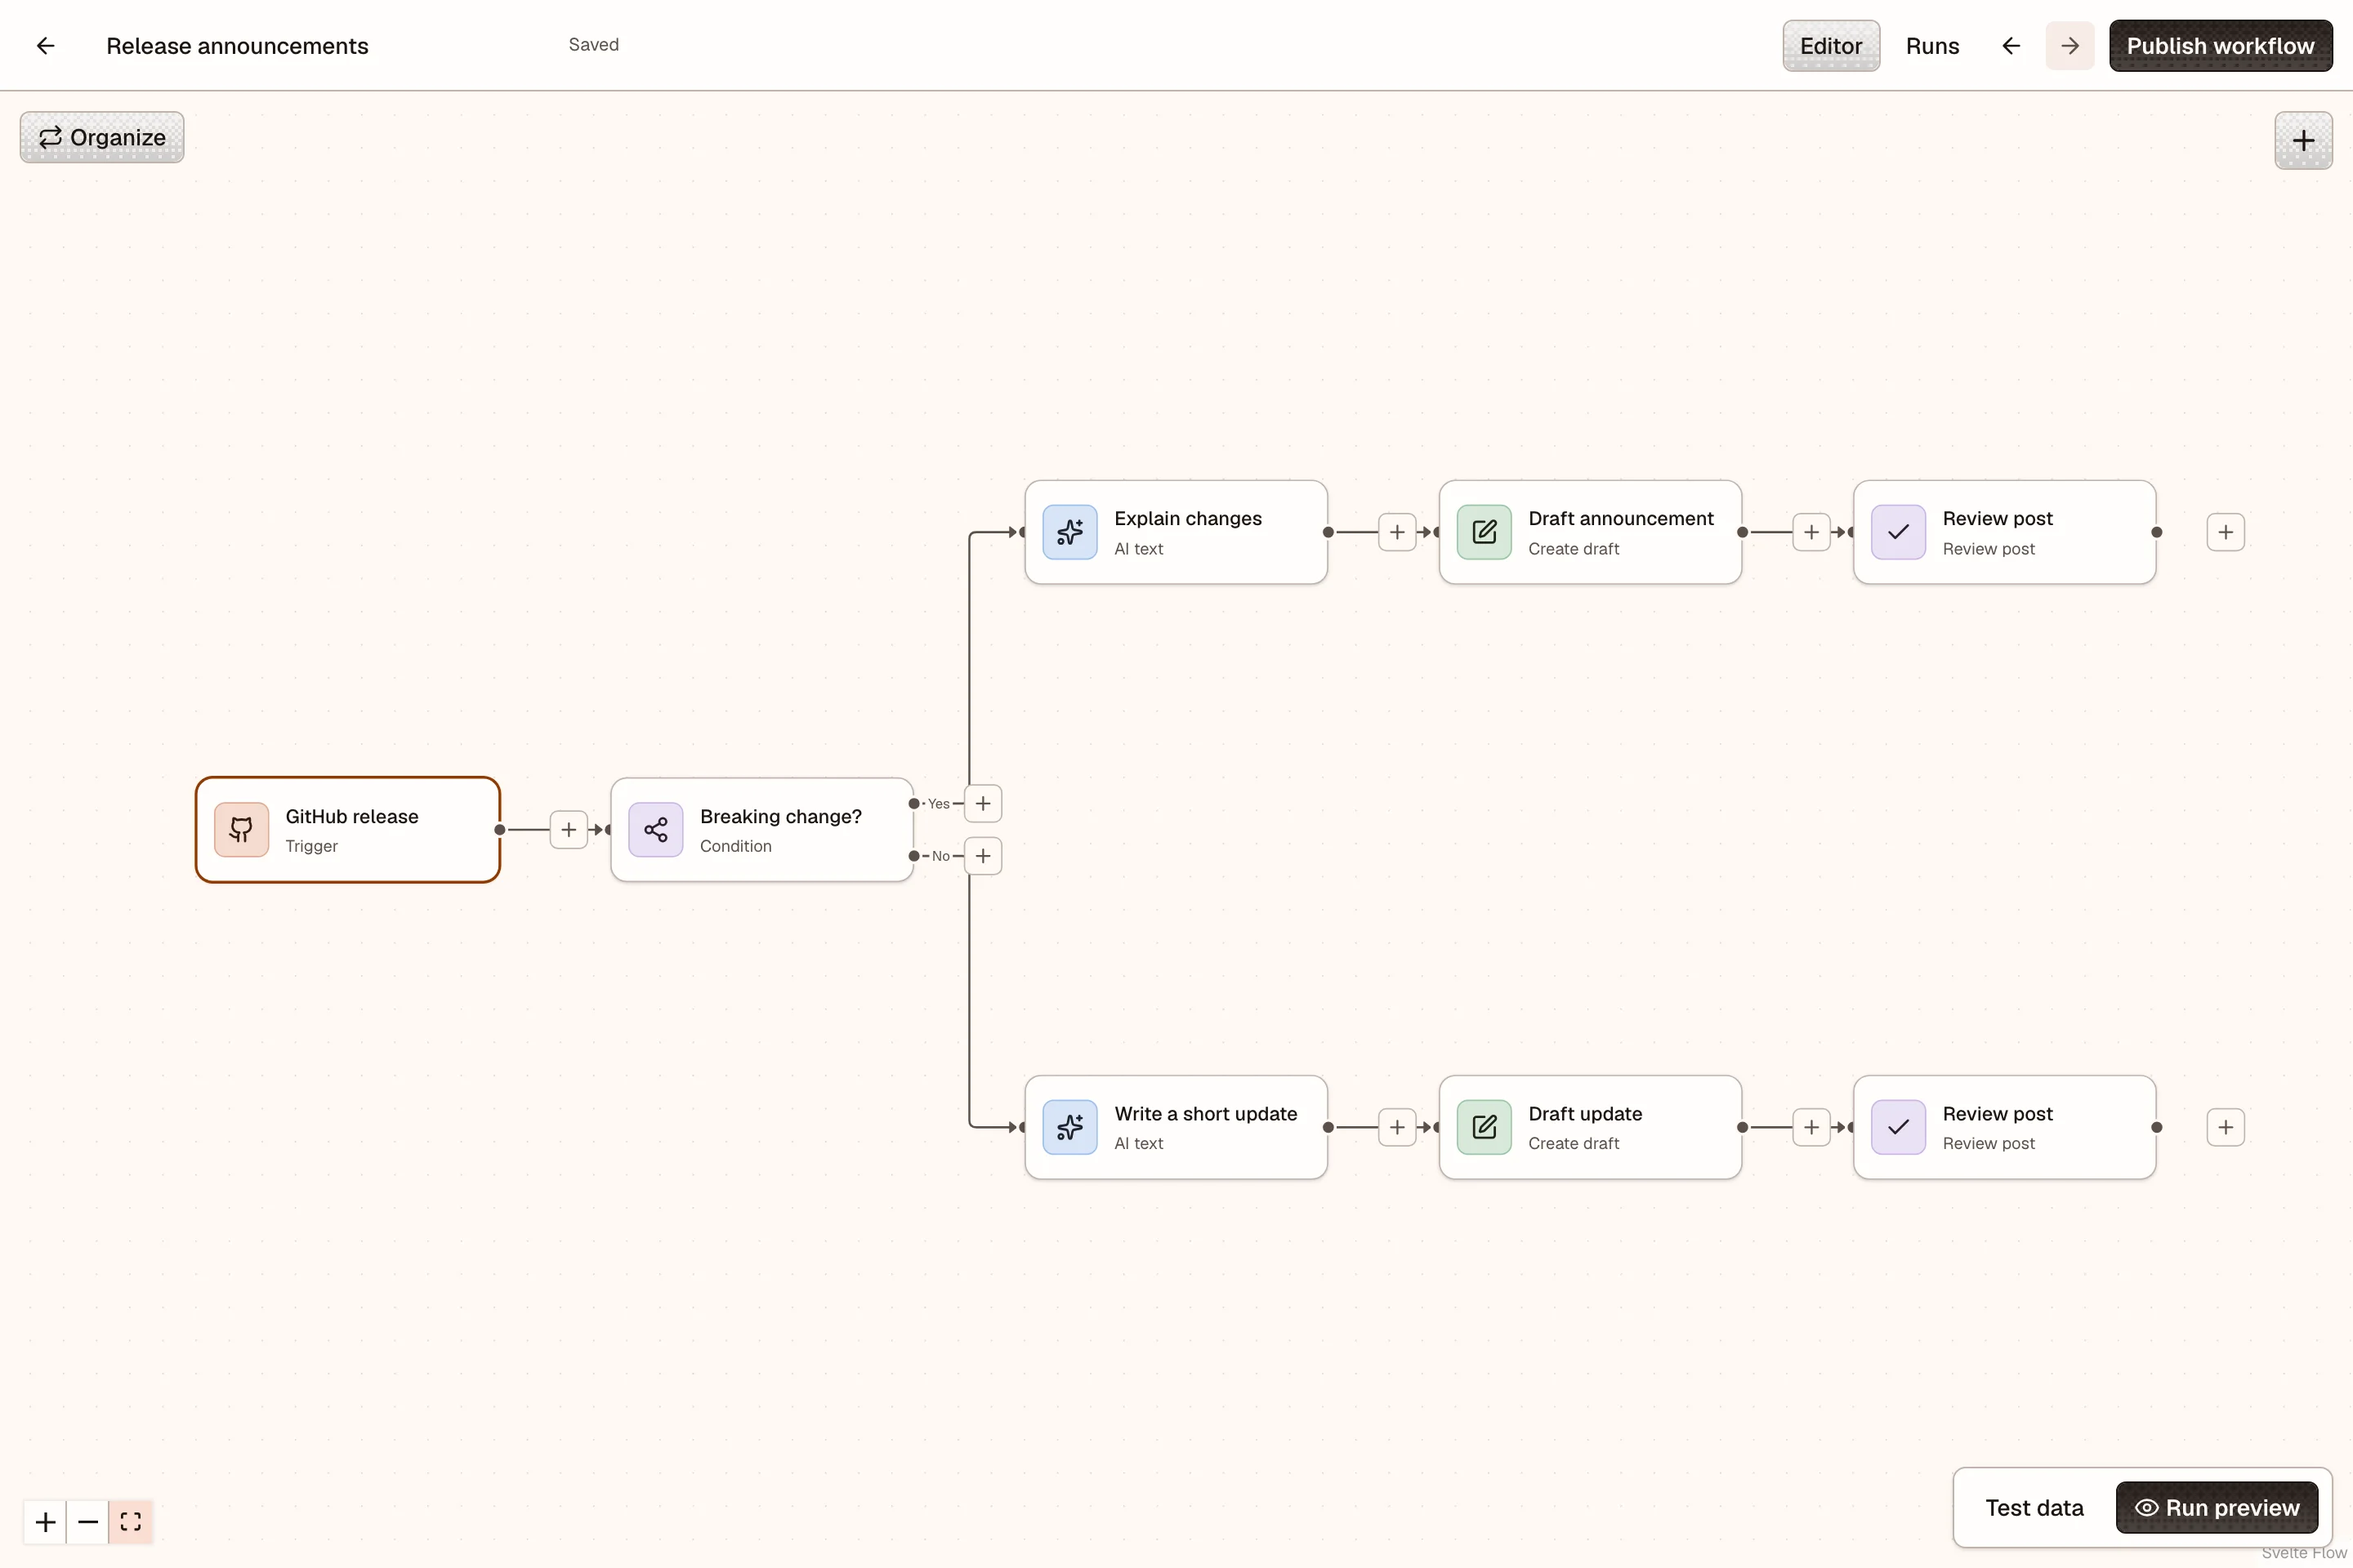
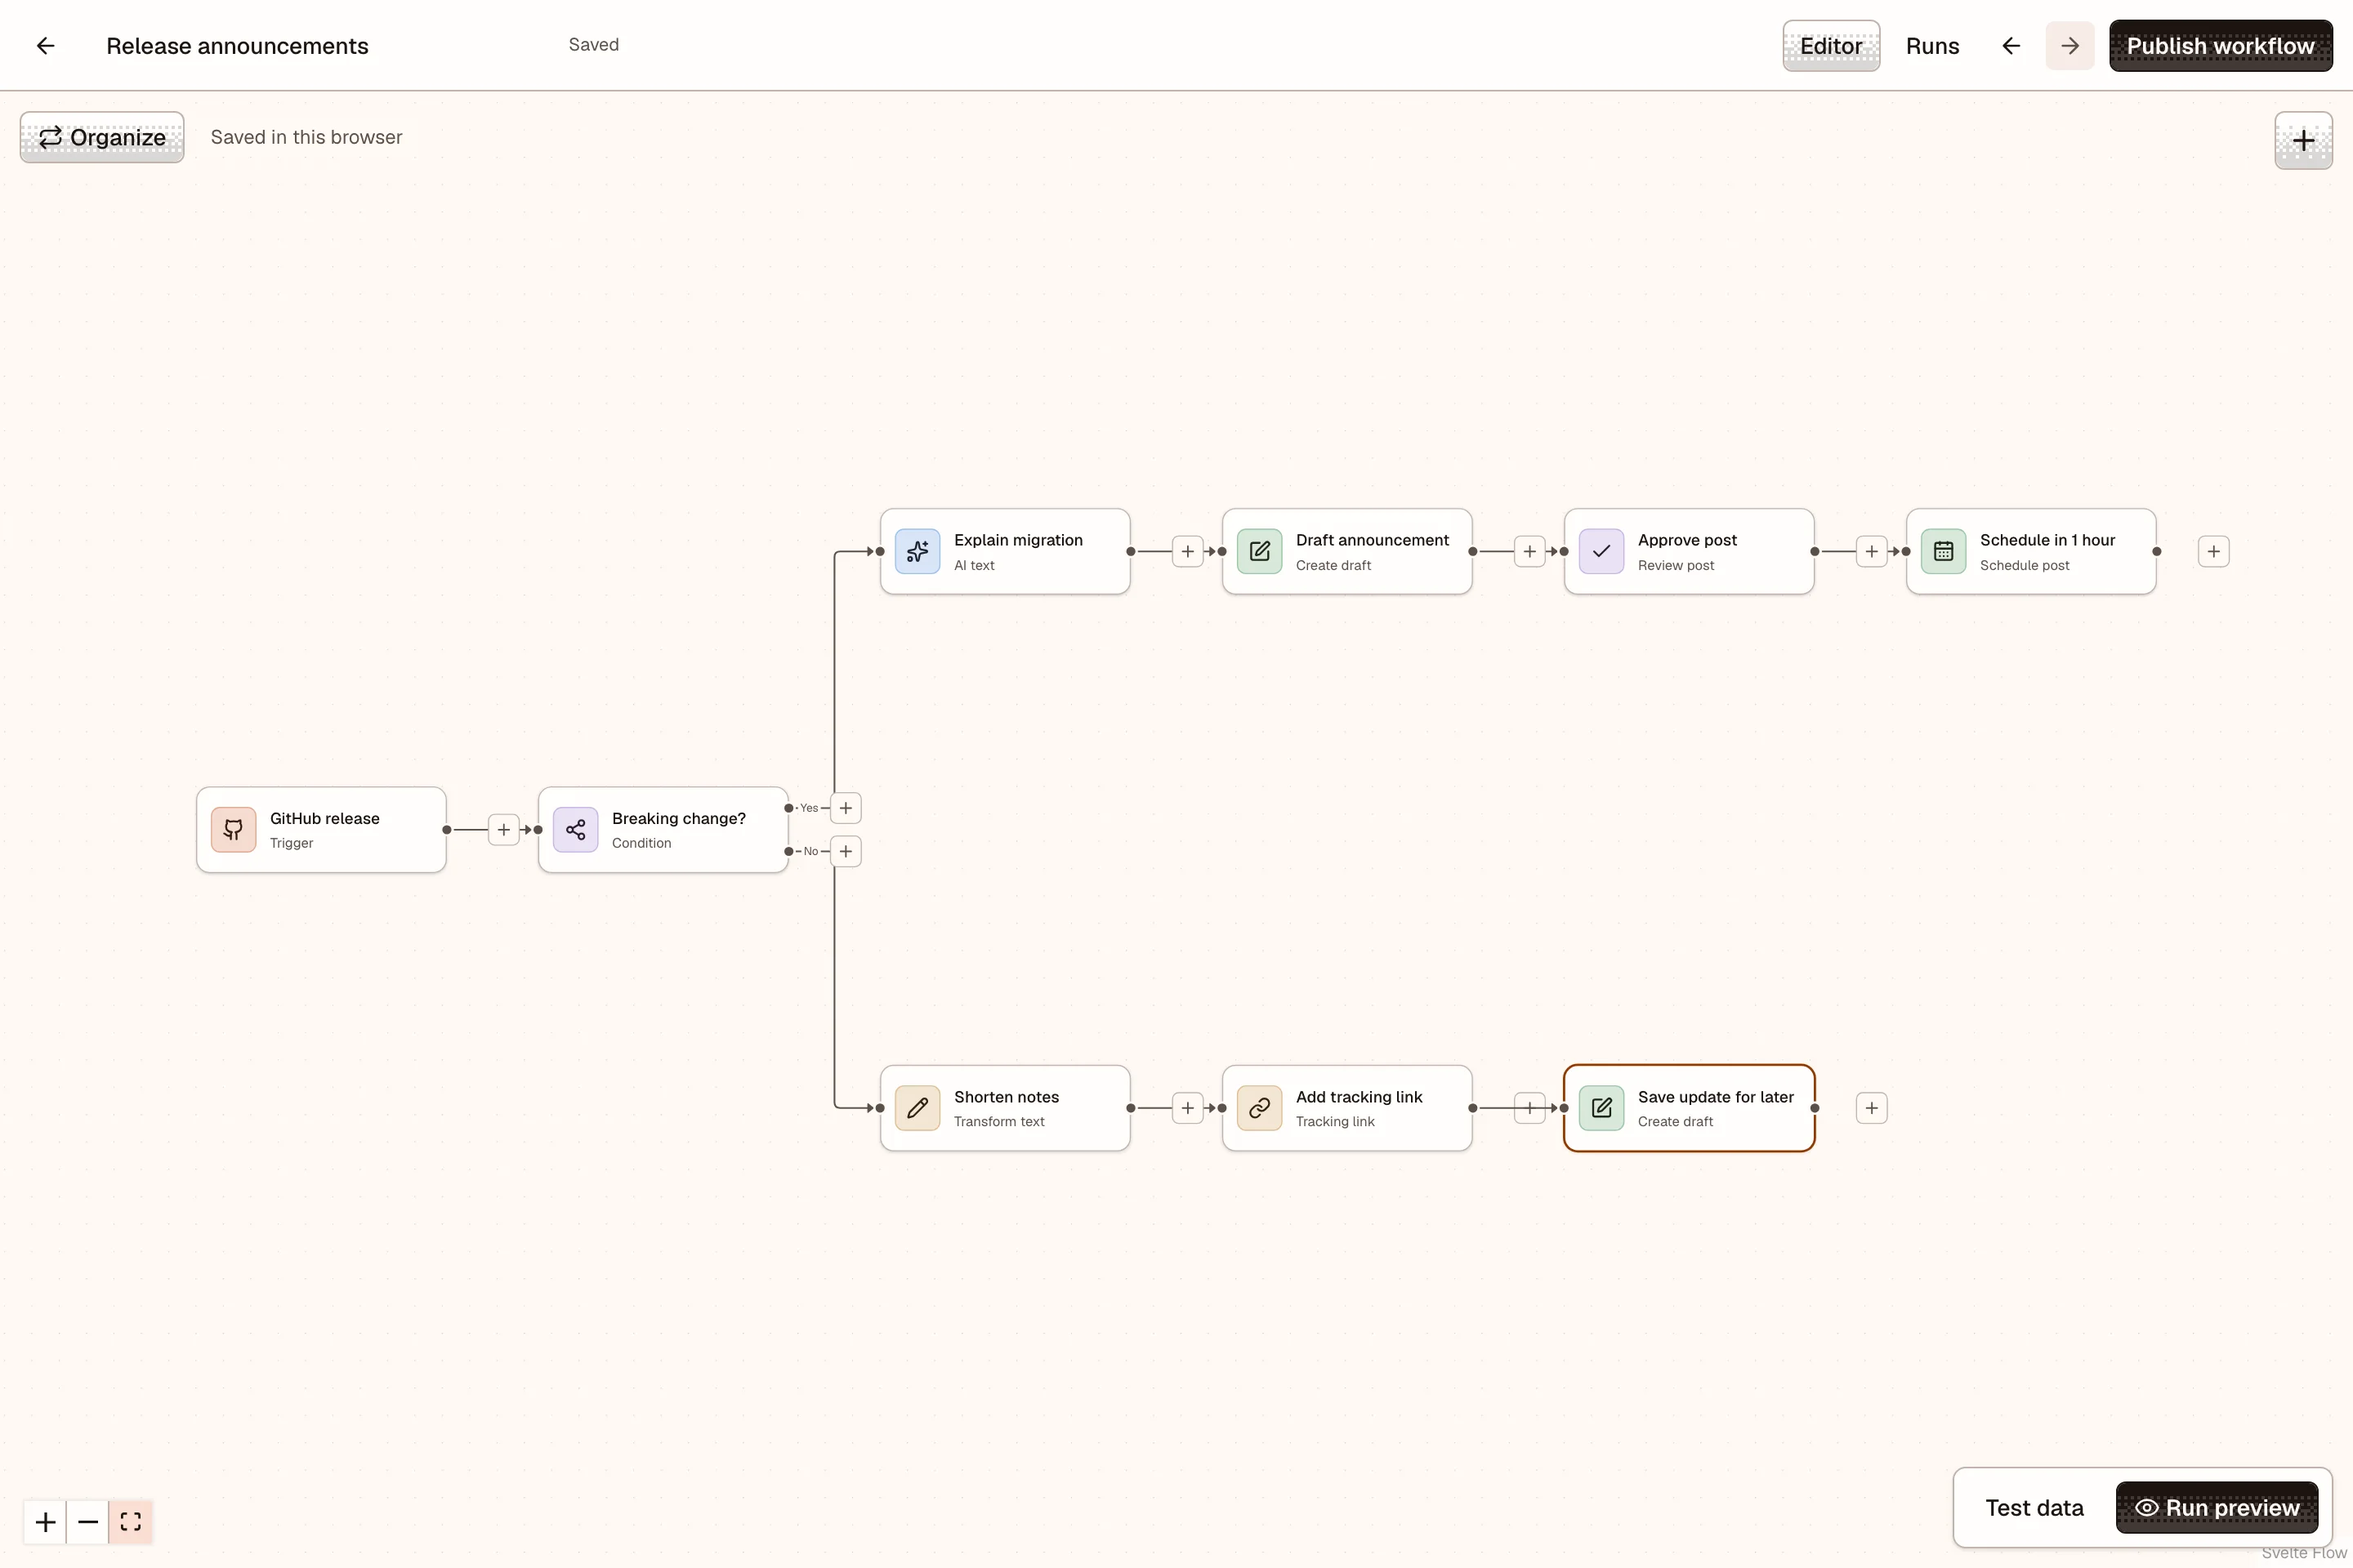
chore(screenshots): refresh workflows tour for the breaking-change demo
The capture spec now builds a release-announcement workflow with
AI writing, approval, and scheduling; tour copy and captures
follow it.

diff --git a/tests/app/product-screenshots.spec.ts b/tests/app/product-screenshots.spec.ts
@@ -991,35 +991,12 @@ test.describe("product screenshot capture", () => {
       await expect(page.getByLabel("Post text", { exact: true })).toBeVisible();
       await captureDetail(page.getByRole("dialog"), `workflows-node-${captureScheme}.png`, 0);
 
-      const branch = (id: string, title: string, instructions: string) => [
-        {
-          id: `${id}_write`,
-          kind: "ai_text",
-          name: title,
-          inputs: { text: { reference: "source.body" }, instructions: { literal: instructions } },
-        },
-        {
-          id: `${id}_draft`,
-          kind: "create_draft",
-          name: id === "launch" ? "Draft announcement" : "Draft update",
-          inputs: {
-            text: { reference: `${id}_write.text` },
-            title: { reference: "source.title" },
-            account_ids: { literal: [] },
-          },
-        },
-        {
-          id: `${id}_review`,
-          kind: "approval",
-          name: "Review post",
-          inputs: { publication_id: { reference: `${id}_draft.id` } },
-        },
-      ];
       const created = await page.request.post(`/api/v1/workflows?workspace_id=${workspace.id}`, {
         headers: { Authorization: `Bearer ${auth.token}` },
         data: {
           name: "Release announcements",
-          description: "Shape each release into a draft for review.",
+          description:
+            "Announce breaking changes after approval, or save a short update with a tracking link.",
           expected_revision: 0,
           definition: {
             schema: 1,
@@ -1034,16 +1011,79 @@ test.describe("product screenshot capture", () => {
                   operator: { literal: "contains" },
                   right: { literal: "Breaking" },
                 },
-                then: branch(
-                  "launch",
-                  "Explain changes",
-                  "Explain the breaking changes and migration steps in a short release announcement. Use only the supplied release notes.",
-                ),
-                else: branch(
-                  "update",
-                  "Write a short update",
-                  "Write a concise product update from these release notes. Use only the supplied facts.",
-                ),
+                then: [
+                  {
+                    id: "launch_write",
+                    kind: "ai_text",
+                    name: "Explain migration",
+                    inputs: {
+                      text: { reference: "source.body" },
+                      instructions: {
+                        literal:
+                          "Explain the breaking changes and migration steps. Use only the supplied release notes.",
+                      },
+                    },
+                  },
+                  {
+                    id: "launch_draft",
+                    kind: "create_draft",
+                    name: "Draft announcement",
+                    inputs: {
+                      text: { reference: "launch_write.text" },
+                      title: { reference: "source.title" },
+                      account_ids: { literal: [] },
+                    },
+                  },
+                  {
+                    id: "launch_review",
+                    kind: "approval",
+                    name: "Approve post",
+                    inputs: { publication_id: { reference: "launch_draft.id" } },
+                  },
+                  {
+                    id: "launch_schedule",
+                    kind: "schedule",
+                    name: "Schedule in 1 hour",
+                    inputs: {
+                      publication_id: { reference: "launch_review.publication_id" },
+                      revision: { reference: "launch_review.revision" },
+                      minutes: { literal: 60 },
+                    },
+                  },
+                ],
+                else: [
+                  {
+                    id: "update_text",
+                    kind: "text",
+                    name: "Shorten notes",
+                    inputs: {
+                      text: { reference: "source.body" },
+                      operation: { literal: "truncate" },
+                      limit: { literal: 240 },
+                    },
+                  },
+                  {
+                    id: "update_link",
+                    kind: "tracking_link",
+                    name: "Add tracking link",
+                    inputs: {
+                      url: { reference: "source.url" },
+                      source: { literal: "social" },
+                      medium: { literal: "organic" },
+                      campaign: { reference: "source.title" },
+                    },
+                  },
+                  {
+                    id: "update_draft",
+                    kind: "create_draft",
+                    name: "Save update for later",
+                    inputs: {
+                      text: { literal: "{{update_text.text}}\n\n{{update_link.url}}" },
+                      title: { reference: "source.title" },
+                      account_ids: { literal: [] },
+                    },
+                  },
+                ],
               },
             ],
           },
@@ -1053,15 +1093,15 @@ test.describe("product screenshot capture", () => {
       const workflow = await created.json();
       await page.goto(`/workflows/${workflow.id}`);
       await page.getByRole("button", { name: "Organize", exact: true }).click();
-      await expect(nodes).toHaveCount(8);
+      await expect(nodes).toHaveCount(9);
       await expect(page.getByText("Yes", { exact: true })).toHaveCount(1);
       await expect(page.getByText("No", { exact: true })).toHaveCount(1);
       // Space the two paths using the same drag gesture as the editor.
-      for (const [prefix, offset] of [
-        ["launch", -120],
-        ["update", 120],
+      for (const [prefix, suffixes, offset] of [
+        ["launch", ["write", "draft", "review", "schedule"], -120],
+        ["update", ["text", "link", "draft"], 120],
       ] as const) {
-        for (const suffix of ["write", "draft", "review"]) {
+        for (const suffix of suffixes) {
           const target = page.locator(`.svelte-flow__node[data-id="${prefix}_${suffix}"]`);
           const box = await target.boundingBox();
           if (!box) throw new Error("Workflow node is not visible");
@@ -1074,8 +1114,10 @@ test.describe("product screenshot capture", () => {
       await page.getByRole("button", { name: "Fit canvas", exact: true }).click();
       await capture(page, `workflows-${captureScheme}.png`, [
         page.getByRole("button", { name: "Breaking change? Condition", exact: true }),
-        page.getByRole("button", { name: "Explain changes AI text", exact: true }),
-        page.getByRole("button", { name: "Write a short update AI text", exact: true }),
+        page.getByRole("button", { name: "Explain migration AI text", exact: true }),
+        page.getByRole("button", { name: "Shorten notes Transform text", exact: true }),
+        page.getByRole("button", { name: "Schedule in 1 hour Schedule post", exact: true }),
+        page.getByRole("button", { name: "Save update for later Create draft", exact: true }),
       ]);
     });
 

diff --git a/apps/marketing/src/routes/_components/ProductTour.svelte b/apps/marketing/src/routes/_components/ProductTour.svelte
@@ -66,8 +66,8 @@
 			icon: '/assets/brand/features/workflows.svg',
 			lightSrc: '/assets/screenshots/workflows-light.webp',
 			darkSrc: '/assets/screenshots/workflows-dark.webp',
-			alt: 'OpenPost Workflows branches a GitHub release into an announcement or a short update, each with a draft and review step',
-			caption: 'Different updates, different paths. You review what goes out.'
+			alt: 'OpenPost Workflows sends breaking changes through AI writing, approval, and scheduling, while other releases become shortened drafts with tracking links',
+			caption: 'Announce breaking changes. Save smaller updates for later.'
 		}
 	];
 	let selected = $state(0);
